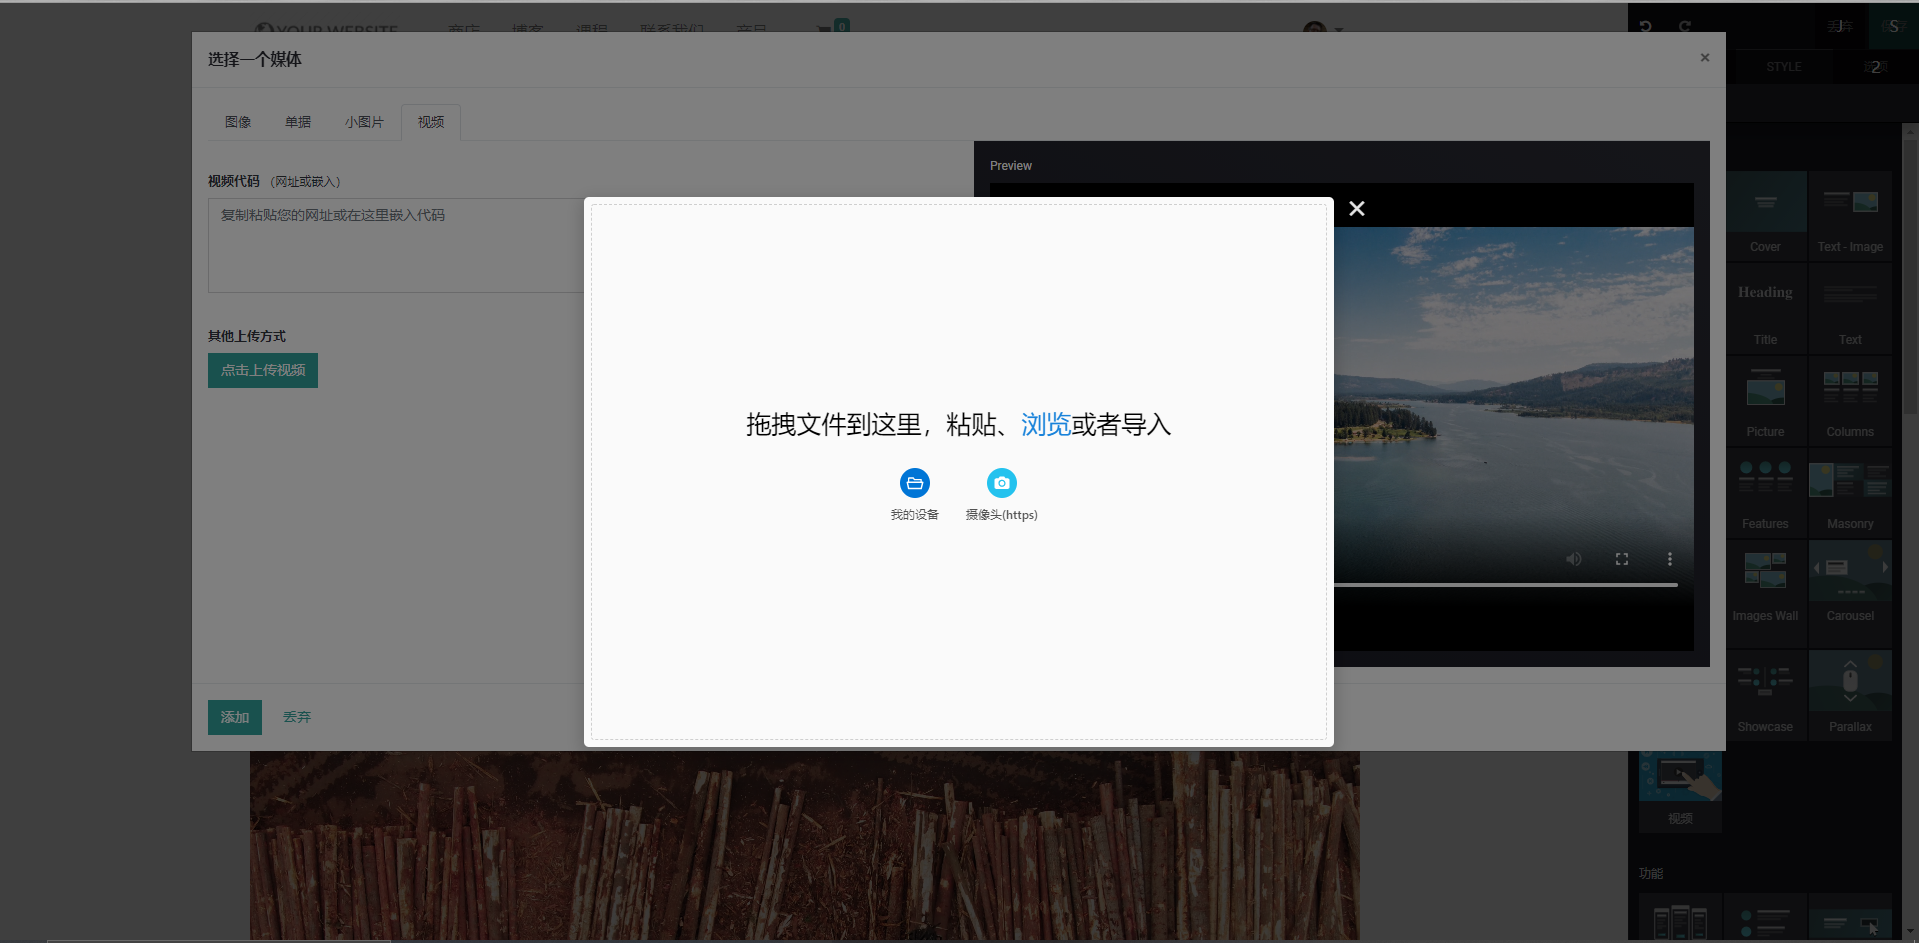
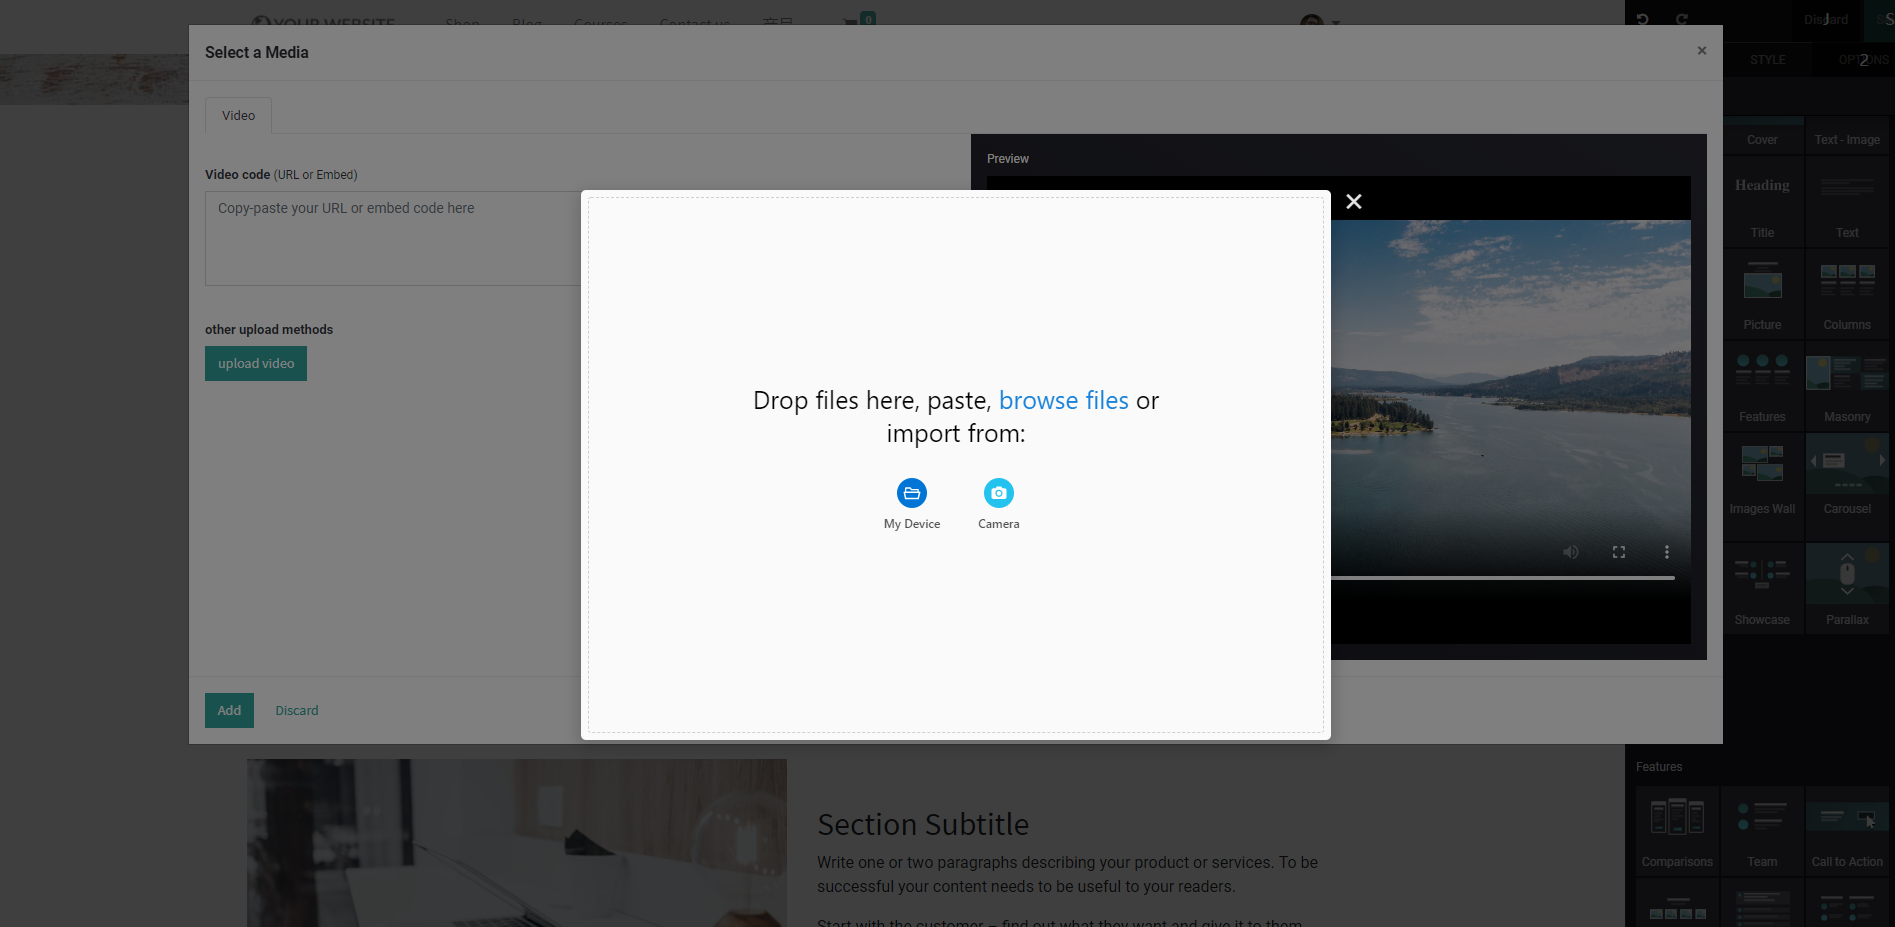
fix error

diff --git a/upload_video_snippet/static/lib/uppy/en_US.min.js b/upload_video_snippet/static/lib/uppy/en_US.min.js
@@ -1,0 +1,2 @@
+!function(){var e={strings:{addBulkFilesFailed:{0:"Failed to add %{smart_count} file due to an internal error",1:"Failed to add %{smart_count} files due to internal errors"},addMore:"Add more",addMoreFiles:"Add more files",addingMoreFiles:"Adding more files",allowAccessDescription:"In order to take pictures or record video with your camera, please allow camera access for this site.",allowAccessTitle:"Please allow access to your camera",aspectRatioLandscape:"Crop landscape (16:9)",aspectRatioPortrait:"Crop portrait (9:16)",aspectRatioSquare:"Crop square",authenticateWith:"Connect to %{pluginName}",authenticateWithTitle:"Please authenticate with %{pluginName} to select files",back:"Back",backToSearch:"Back to Search",browse:"browse",browseFiles:"browse files",browseFolders:"browse folders",cancel:"Cancel",cancelUpload:"Cancel upload",chooseFiles:"Choose files",closeModal:"Close Modal",companionError:"Connection with Companion failed",companionUnauthorizeHint:"To unauthorize to your %{provider} account, please go to %{url}",complete:"Complete",connectedToInternet:"Connected to the Internet",copyLink:"Copy link",copyLinkToClipboardFallback:"Copy the URL below",copyLinkToClipboardSuccess:"Link copied to clipboard",creatingAssembly:"Preparing upload...",creatingAssemblyFailed:"Transloadit: Could not create Assembly",dashboardTitle:"File Uploader",dashboardWindowTitle:"File Uploader Window (Press escape to close)",dataUploadedOfTotal:"%{complete} of %{total}",done:"Done",dropHereOr:"Drop files here or %{browse}",dropHint:"Drop your files here",dropPasteBoth:"Drop files here, paste, %{browseFiles} or %{browseFolders}",dropPasteFiles:"Drop files here, paste or %{browseFiles}",dropPasteFolders:"Drop files here, paste or %{browseFolders}",dropPasteImportBoth:"Drop files here, paste, %{browseFiles}, %{browseFolders} or import from:",dropPasteImportFiles:"Drop files here, paste, %{browseFiles} or import from:",dropPasteImportFolders:"Drop files here, paste, %{browseFolders} or import from:",editFile:"Edit file",editing:"Editing %{file}",emptyFolderAdded:"No files were added from empty folder",encoding:"Encoding...",enterCorrectUrl:"Incorrect URL: Please make sure you are entering a direct link to a file",enterTextToSearch:"Enter text to search for images",enterUrlToImport:"Enter URL to import a file",exceedsSize:"This file exceeds maximum allowed size of",exceedsSize2:"%{backwardsCompat} %{size}",failedToFetch:"Companion failed to fetch this URL, please make sure it\u2019s correct",failedToUpload:"Failed to upload %{file}",fileSource:"File source: %{name}",filesUploadedOfTotal:{0:"%{complete} of %{smart_count} file uploaded",1:"%{complete} of %{smart_count} files uploaded"},filter:"Filter",finishEditingFile:"Finish editing file",flipHorizontal:"Flip horizonal",folderAdded:{0:"Added %{smart_count} file from %{folder}",1:"Added %{smart_count} files from %{folder}"},generatingThumbnails:"Generating thumbnails...",import:"Import",importFrom:"Import from %{name}",inferiorSize:"This file is smaller than the allowed size of %{size}",loading:"Loading...",logOut:"Log out",micDisabled:"Microphone access denied by user",myDevice:"My Device",noCameraDescription:"In order to take pictures or record video, please connect a camera device",noCameraTitle:"Camera Not Available",noDuplicates:"Cannot add the duplicate file '%{fileName}', it already exists",noFilesFound:"You have no files or folders here",noInternetConnection:"No Internet connection",noNewAlreadyUploading:"Cannot add new files: already uploading",openFolderNamed:"Open folder %{name}",pause:"Pause",pauseUpload:"Pause upload",paused:"Paused",poweredBy:"Powered by",poweredBy2:"%{backwardsCompat} %{uppy}",processingXFiles:{0:"Processing %{smart_count} file",1:"Processing %{smart_count} files"},recording:"Recording",recordingLength:"Recording length %{recording_length}",recordingStoppedMaxSize:"Recording stopped because the file size is about to exceed the limit",removeFile:"Remove file",resetFilter:"Reset filter",resume:"Resume",resumeUpload:"Resume upload",retry:"Retry",retryUpload:"Retry upload",revert:"Revert",rotate:"Rotate",save:"Save",saveChanges:"Save changes",searchImages:"Search for images",selectAllFilesFromFolderNamed:"Select all files from folder %{name}",selectFileNamed:"Select file %{name}",selectX:{0:"Select %{smart_count}",1:"Select %{smart_count}"},smile:"Smile!",startCapturing:"Begin screen capturing",startRecording:"Begin video recording",stopCapturing:"Stop screen capturing",stopRecording:"Stop video recording",streamActive:"Stream active",streamPassive:"Stream passive",submitRecordedFile:"Submit captured video",takePicture:"Take a picture",timedOut:"Upload stalled for %{seconds} seconds, aborting.",unselectAllFilesFromFolderNamed:"Unselect all files from folder %{name}",unselectFileNamed:"Unselect file %{name}",upload:"Upload",uploadComplete:"Upload complete",uploadFailed:"Upload failed",uploadPaused:"Upload paused",uploadXFiles:{0:"Upload %{smart_count} file",1:"Upload %{smart_count} files"},uploadXNewFiles:{0:"Upload +%{smart_count} file",1:"Upload +%{smart_count} files"},uploading:"Uploading",uploadingXFiles:{0:"Uploading %{smart_count} file",1:"Uploading %{smart_count} files"},xFilesSelected:{0:"%{smart_count} file selected",1:"%{smart_count} files selected"},xMoreFilesAdded:{0:"%{smart_count} more file added",1:"%{smart_count} more files added"},xTimeLeft:"%{time} left",youCanOnlyUploadFileTypes:"You can only upload: %{types}",youCanOnlyUploadX:{0:"You can only upload %{smart_count} file",1:"You can only upload %{smart_count} files"},youHaveToAtLeastSelectX:{0:"You have to select at least %{smart_count} file",1:"You have to select at least %{smart_count} files"},zoomIn:"Zoom in",zoomOut:"Zoom out"},pluralize:function(e){return 1===e?0:1}};"undefined"!=typeof window&&void 0!==window.Uppy&&(window.Uppy.locales.en_US=e)}();
+//# sourceMappingURL=en_US.min.js.map

diff --git a/upload_video_snippet/static/src/js/media.js b/upload_video_snippet/static/src/js/media.js
@@ -12,10 +12,10 @@ odoo.define('hlcloud_website.wysiwyg.widgets.media', function (require) {
             return this._super.apply(this, arguments).then(function () {
                 self.$('.o_video_dialog_options').after('<div class="upload-area">\n' +
                     '                    <label class="col-form-label" for="o_video_text">\n' +
-                    '                        其他上传方式\n' +
+                    '                        other upload methods\n' +
                     '                    </label>\n' +
                     '                    <div id="videoDragDrop">\n' +
-                    '                        <button type="button" class="btn btn-primary upload-trigger">点击上传视频</button>\n' +
+                    '                        <button type="button" class="btn btn-primary upload-trigger">upload video</button>\n' +
                     '                    </div>\n' +
                     '                </div>');
             });
@@ -35,14 +35,14 @@ odoo.define('hlcloud_website.wysiwyg.widgets.media', function (require) {
         start: function () {
             var self = this;
             return this._super.apply(this, arguments).then(function () {
-                //    处理视频文件上传
+                //    use uppy to handle upload video
                 var uppy = Uppy.Core({
                     debug: true,
                     meta: {
                         csrf_token: core.csrf_token
                     },
                     autoProceed: true,
-                    locale: Uppy.locales.zh_CN,
+                    locale: Uppy.locales.en_US,
                     allowMultipleUploads: false,
                     restrictions: {
                         maxNumberOfFiles: 1,
@@ -58,9 +58,12 @@ odoo.define('hlcloud_website.wysiwyg.widgets.media', function (require) {
                 });
                 uppy.use(Uppy.Webcam, {
                     target: Uppy.Dashboard,
-                    title: '摄像头(https)'
+                    // title: '摄像头(https)'
                 });
-                uppy.use(Uppy.ScreenCapture, {target: Uppy.Dashboard, title: '屏幕录制'});
+                uppy.use(Uppy.ScreenCapture, {
+                    target: Uppy.Dashboard,
+                    // title: '屏幕录制'
+                });
                 uppy.use(Uppy.XHRUpload, {
                     endpoint: location.origin + '/videos/upload/process',
                     fieldName: 'file'
@@ -68,7 +71,6 @@ odoo.define('hlcloud_website.wysiwyg.widgets.media', function (require) {
                 uppy.on('upload-success', (file, response) => {
                     // HTTP status code
                     // extracted response data
-                    console.log('文件上传成功', file, response.status, response.body);
                     const videoUrl = response.body.url;
                     self._updateVideoViaUrl(videoUrl);
                 });

diff --git a/upload_video_snippet/static/description/index.html b/upload_video_snippet/static/description/index.html
@@ -23,24 +23,23 @@
         <div class="oe_span12">
             <div class="oe_centeralign">
                 <p class="text-warning">we use uppy for upload client, if you want use webcam, make sure your odoo server runing in https, and for screenshot, you can only run in local or with domain name</p>
-                <p class="text-warning">we use the language chinese default, if you want use another language, you may need to modify the code </p>
+                <p class="text-warning">we only include chinese and english language locale package of uppy, if you want use another language, you may need to download the locale package you need </p>
             </div>
-        </div>	
+        </div>
     </div>
 </section>
 
 <section class="oe_container oe_separator">
 </section>
 
-<section class="oe_container oe_dark">	
-    <div class="oe_row">	
-        <div class="oe_span12 oe_centeralign">	
-            <br/>	
-            <h3>Help & Support</h3>	
+<section class="oe_container oe_dark">
+    <div class="oe_row">
+        <div class="oe_span12 oe_centeralign">
             <br/>
-                Contact: <a href="mailto:2426548297@qq.com" subject="upload video">Email Support</a><br/>
-            <br/>	
-        </div>	
-    </div>	
+            <h3>Help & Support</h3>
+            <br/>
+                if you have any problem, please cantact me: <a href="mailto:2426548297@qq.com" subject="upload video">Email Support</a><br/>
+            <br/>
+        </div>
+    </div>
 </section>
-

diff --git a/upload_video_snippet/controllers/controllers.py b/upload_video_snippet/controllers/controllers.py
@@ -22,7 +22,7 @@ class WebsiteVideosController(http.Controller):
         video = request.env['video.video'].create(create_dict)
         return json.dumps({
             'url': request.httprequest.host_url + 'videos/stream/' + str(video.id) + '.mp4',
-            'msg': '上传成功'
+            'msg': 'upload success'
         })
 
     @http.route('/videos/stream/<video>.mp4', type="http", auth="public")
